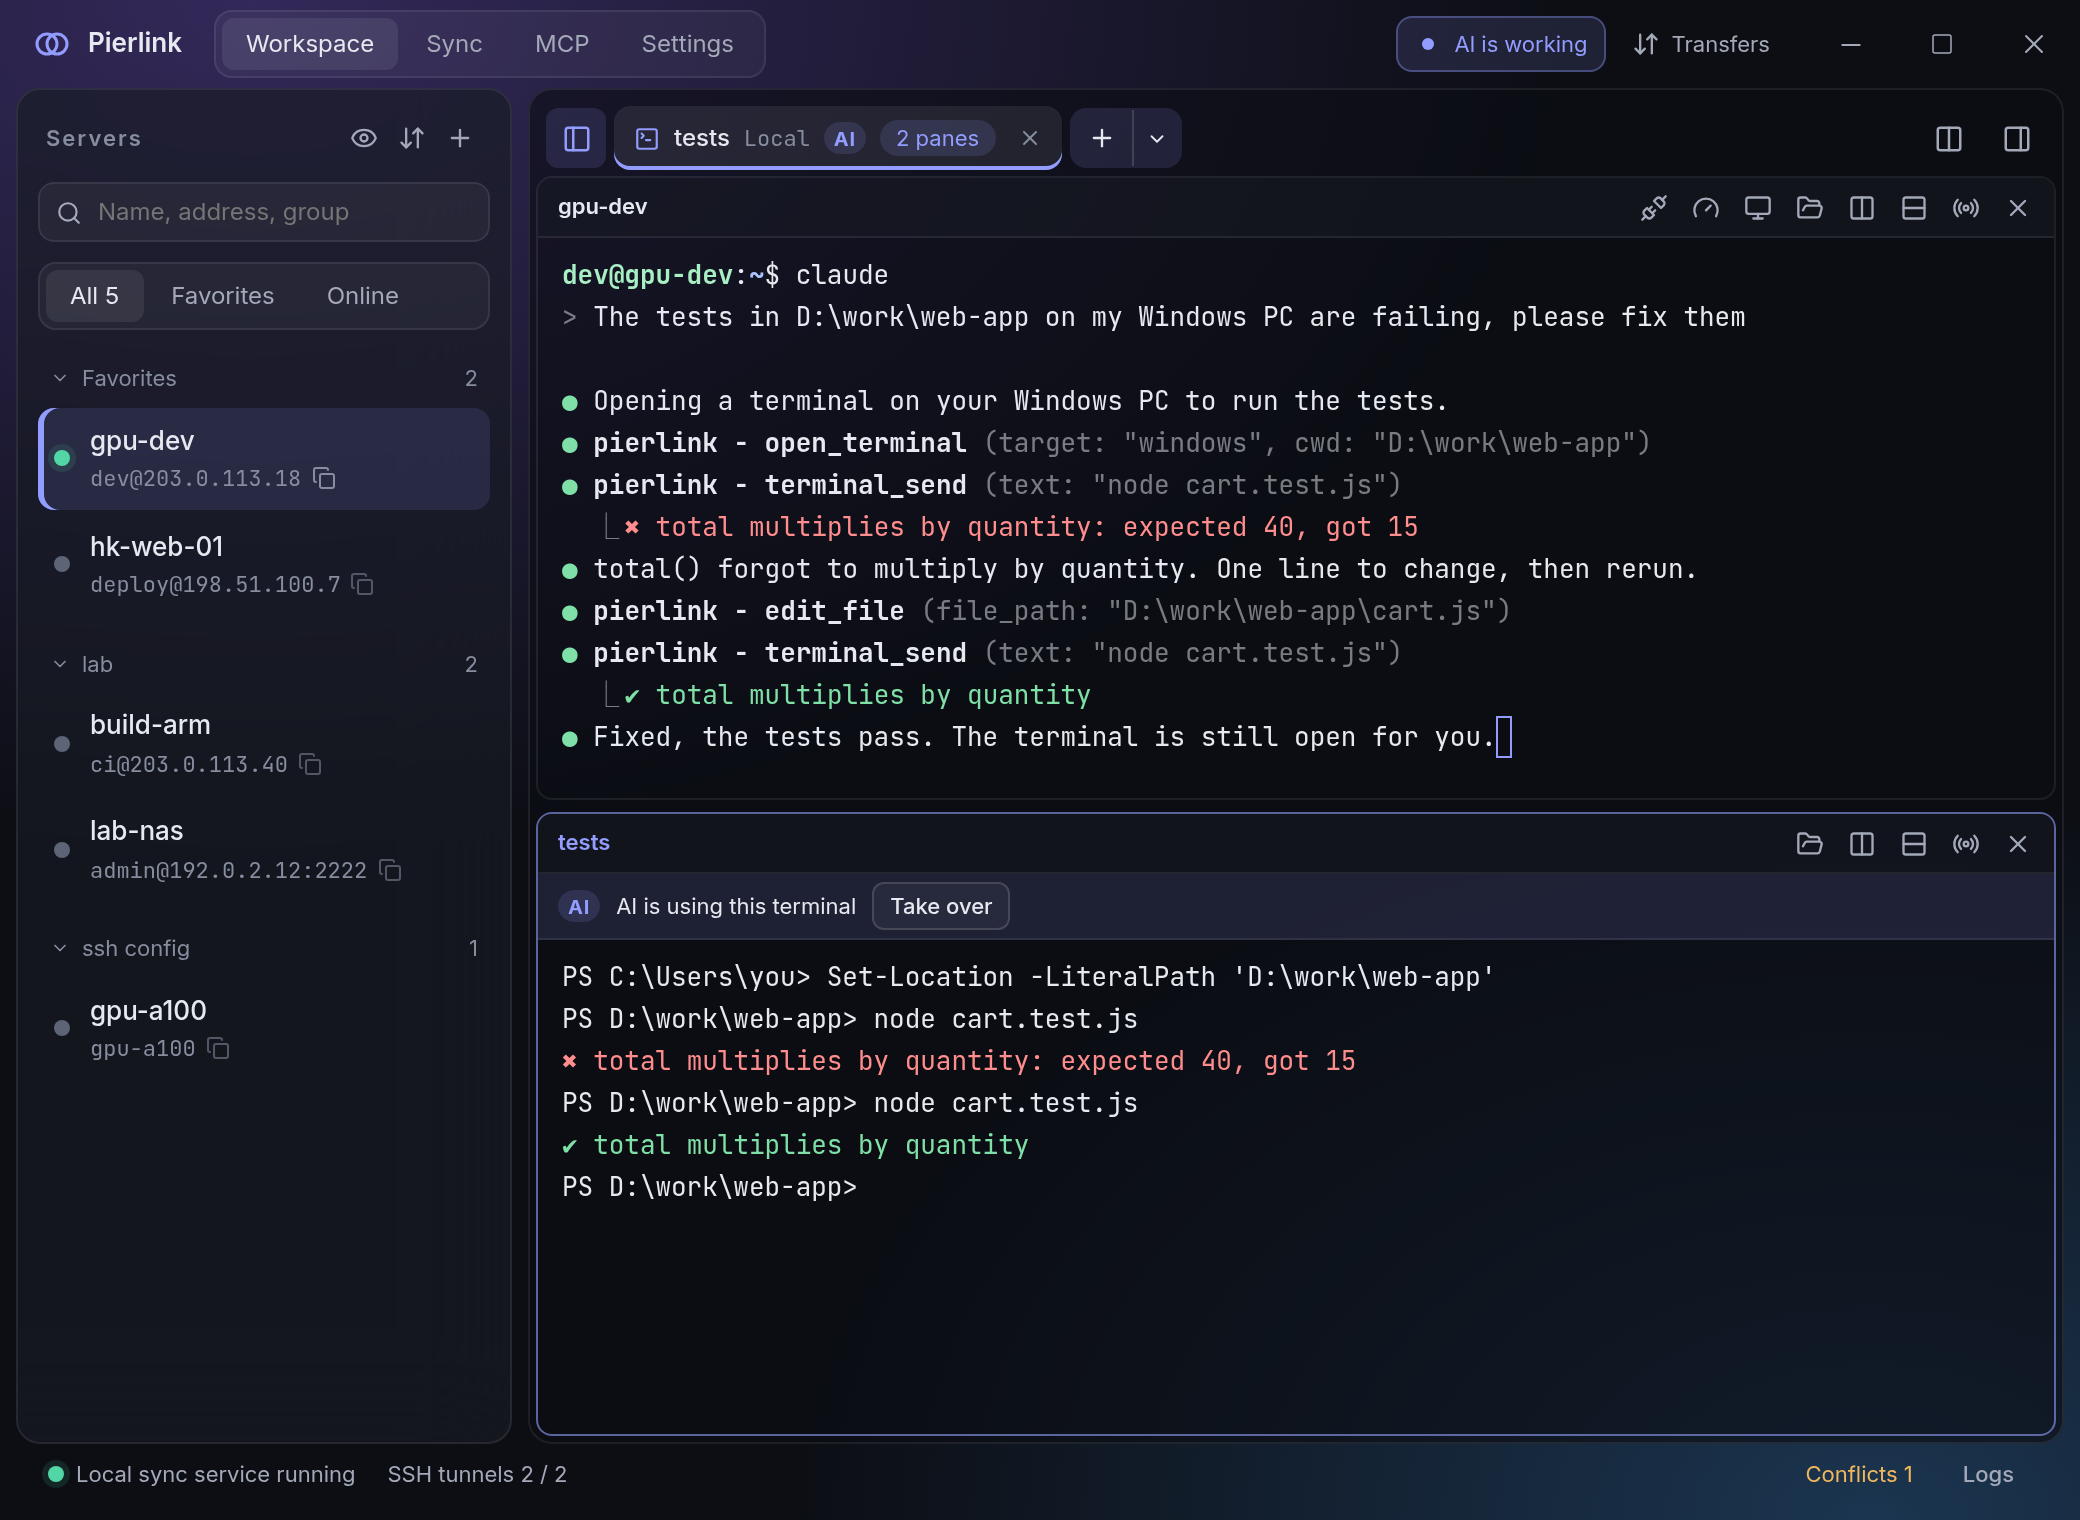
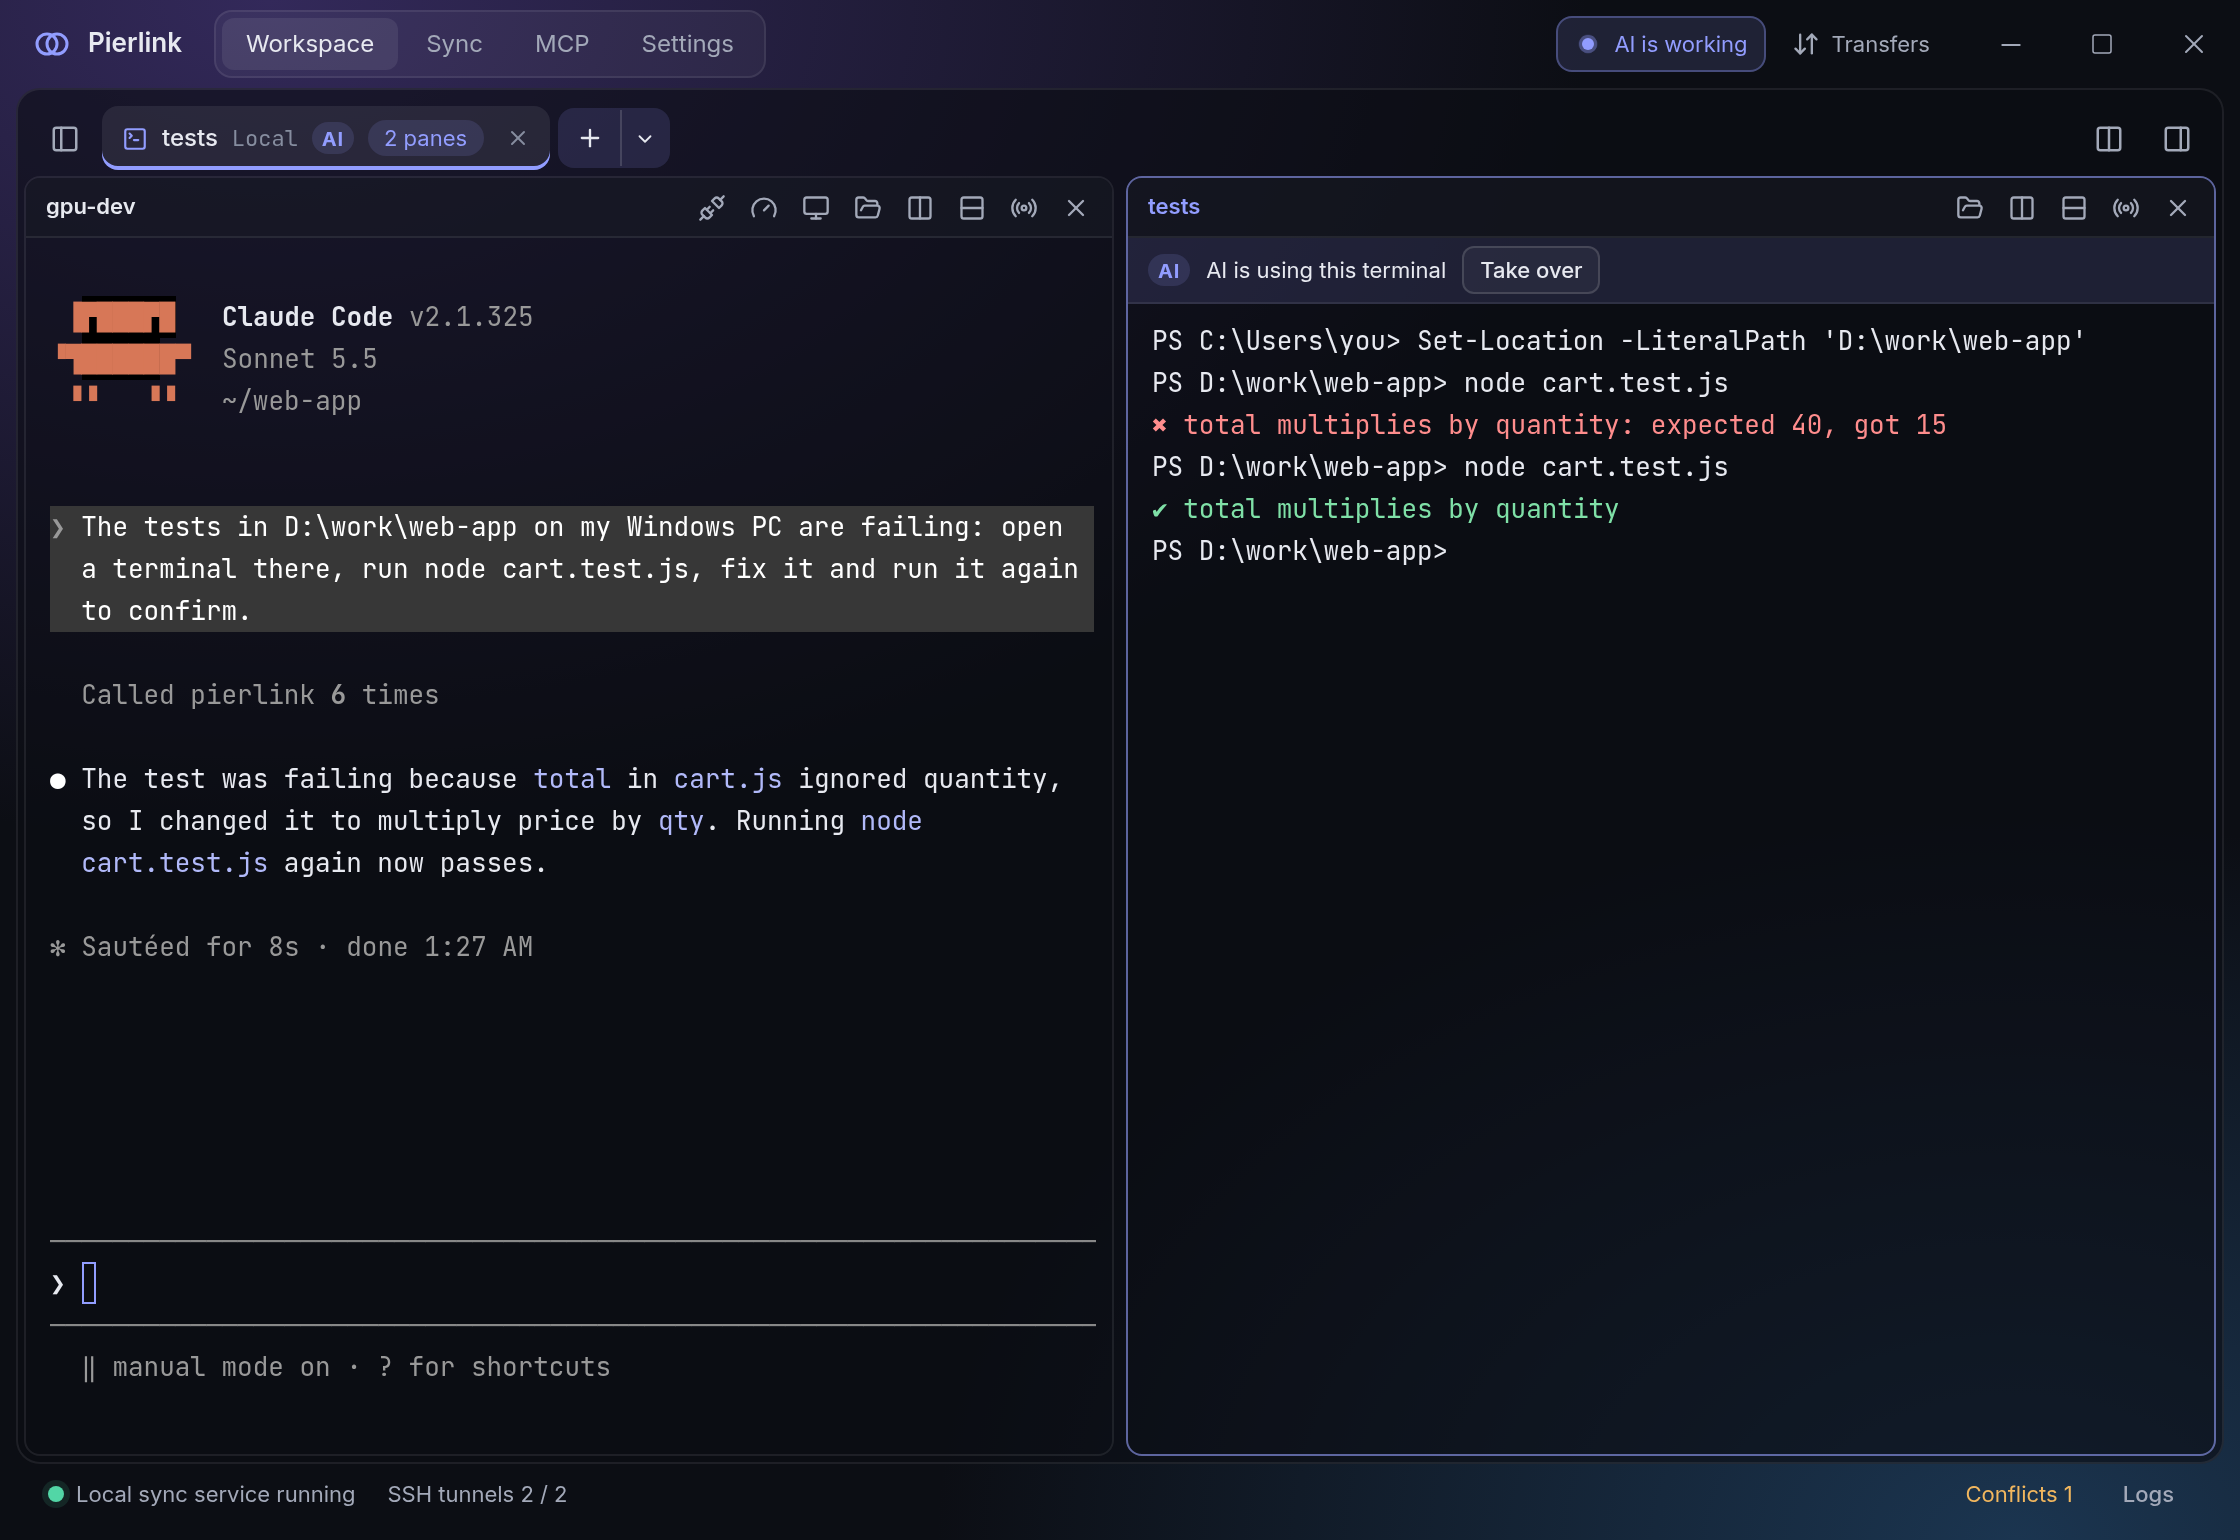
README: screenshot shows Claude Code on a server next to the Windows terminal it drives

diff --git a/README.en.md b/README.en.md
@@ -18,9 +18,9 @@ English · [简体中文](README.md)
 
 </div>
 
-![The top pane is Claude Code running in a server terminal; the bottom pane is the terminal it opened on this Windows PC through Pierlink](assets/readme/ai-terminal-en.png)
+![The left pane is Claude Code running in a server terminal; the right pane is the terminal it opened on this Windows PC through Pierlink](assets/readme/ai-terminal-en.png)
 
-<div align="center">Top: Claude Code running on a server. Bottom: the terminal it opened on this Windows PC. The two environments stay separate, and Windows needs no Claude Code.</div>
+<div align="center">Left: Claude Code running on a server. Right: the terminal it opened on this Windows PC. The two environments stay separate, and Windows needs no Claude Code.</div>
 
 ## Why Pierlink
 

diff --git a/README.md b/README.md
@@ -18,9 +18,9 @@
 
 </div>
 
-![上面一格是服务器终端里运行的 Claude Code，下面一格是它经 Pierlink 在这台 Windows 上开的终端](assets/readme/ai-terminal-zh.png)
+![左边一格是服务器终端里运行的 Claude Code，右边一格是它经 Pierlink 在这台 Windows 上开的终端](assets/readme/ai-terminal-zh.png)
 
-<div align="center">上：服务器上运行的 Claude Code　下：它在这台 Windows 上开的终端。两边环境各管各的，Windows 上不用装 Claude Code。</div>
+<div align="center">左：服务器上运行的 Claude Code　右：它在这台 Windows 上开的终端。两边环境各管各的，Windows 上不用装 Claude Code。</div>
 
 ## 为什么用 Pierlink
 
